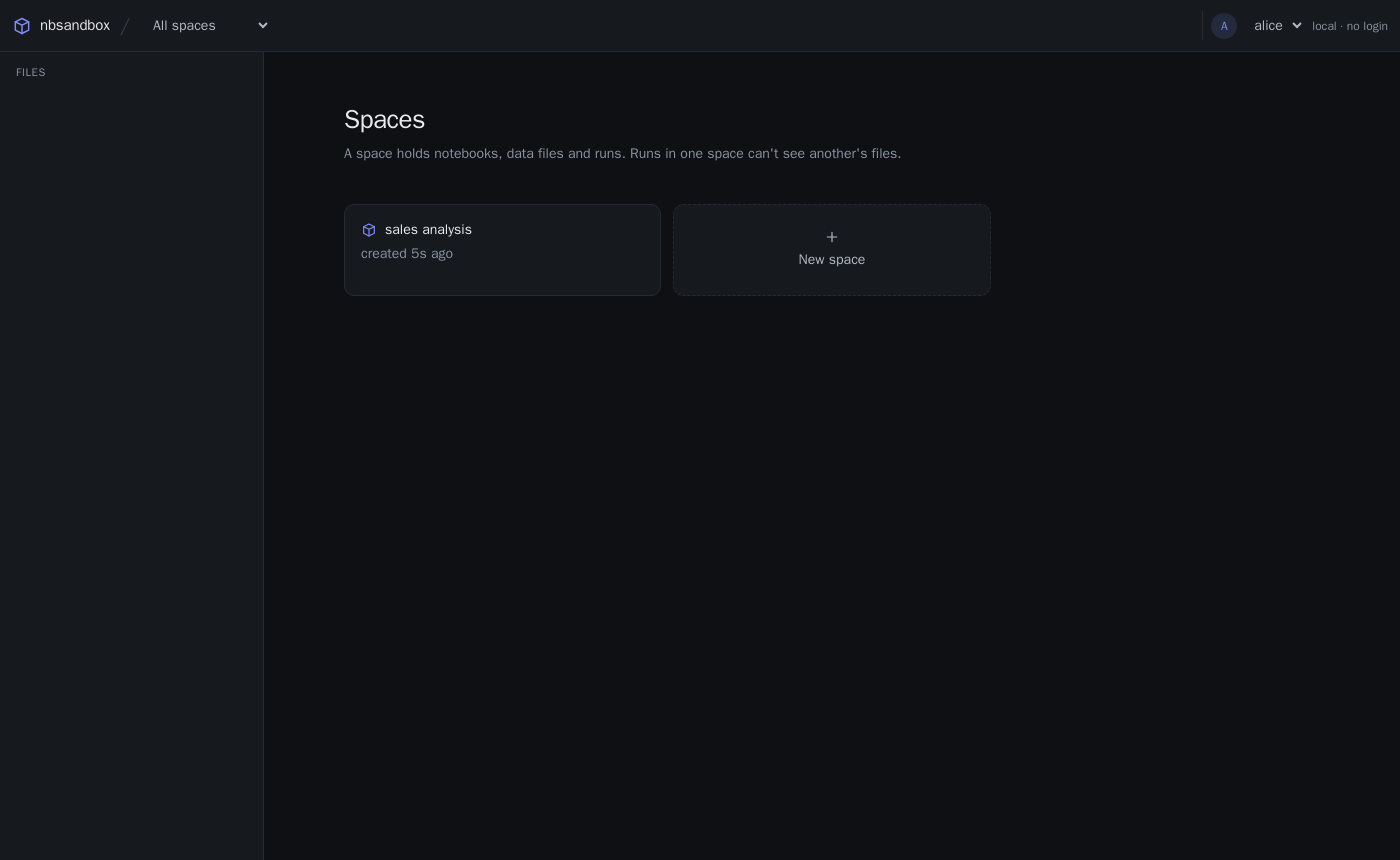
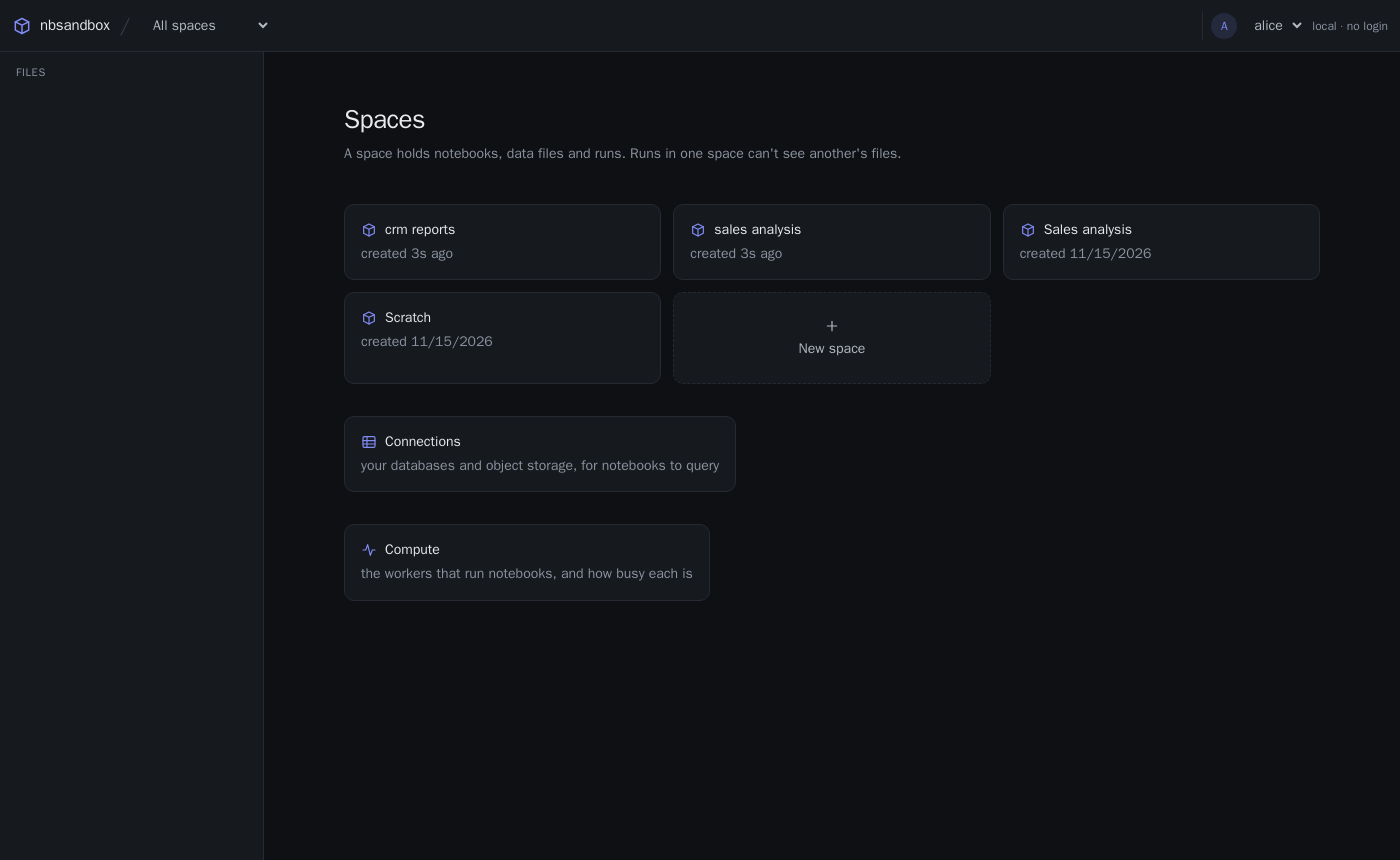
docs: the security review for v0.4.0, and the tour retaken
The review: govulncheck, pip-audit (runner and fetcher), Trivy on the four
images, gitleaks, and the new surface (credentials, the secret store, the
gateway, the SQL gate, TLS, the fetcher's extensions, the compute view, new
permissions), with what was fixed and what is accepted.

The tour: every screenshot retaken (make tour, connections on), with the
four new steps. The connections steps use a space of their own (a space
that binds names starts a fetcher for each run), and reuse an earlier
tour's connection.

diff --git a/scripts/tour/tour.py b/scripts/tour/tour.py
@@ -184,12 +184,20 @@ def compute(page):
     """Connections (when they're on) and the compute view: the workers, and
     a run's usage charts while the compute demo runs."""
     # 16. The user's connections; 17. the space's names for them.
+    conn_space = os.environ.get("TOUR_CONN_SPACE", "")
     page.goto(f"{BASE}/#/{USER}/~connections")
-    if page.get_by_text("crm-prod").first.is_visible(timeout=10_000):
+    listed = False
+    if conn_space:
+        try:
+            page.get_by_text("crm-prod").first.wait_for(timeout=15_000)
+            listed = True
+        except Exception:
+            pass
+    if listed:
         shot(page, "16-connections")
-        page.goto(f"{BASE}/#/{USER}/{SPACE}")
+        page.goto(f"{BASE}/#/{USER}/{conn_space}")
         section = page.locator(".space-connections")
-        expect(section.get_by_text("Environments")).to_be_visible(timeout=15_000)
+        expect(section.locator("th.group")).to_be_visible(timeout=15_000)
         section.scroll_into_view_if_needed()
         shot(page, "17-space-connections")
     else:

diff --git a/docs/security/review.md b/docs/security/review.md
@@ -2,6 +2,27 @@
 
 **2026-11-08, before the first v0.x release.** What was checked, what was found, and what was done about each finding. Repeat it before each release (the commands are at the end). The [threat model](threat-model.md) describes what nbsandbox protects against; this page is the evidence that it was checked.
 
+## The review for v0.4.0 (2026-11-26)
+
+Reading data outside nbsandbox is the new surface: users' credentials, a fetcher beside each reading run, an egress gateway. And the compute view: the workers, and each run's usage.
+
+| Area | Result |
+|---|---|
+| Go | `govulncheck`: none reached by our code (one in a required module, not called). No new dependency: `go.mod` is as at 0.3.0 |
+| Python packages | `pip-audit`: none, in the runner's packages and in the fetcher's (new: DuckDB 1.5.6 and pyarrow 26.0.1, which the runner now has too) |
+| Container images | Trivy, HIGH and CRITICAL with a fix: nbsandboxd 0, runner 0, builder 0, fetcher 0 (new image; the accepted CVE-2025-47273 still listed in `.trivyignore`). The runner, builder and fetcher each have 53 HIGH without a published fix, in Debian packages of the Python base image they share; the weekly rebuild takes them up once fixed. The weekly scan now covers the fetcher too |
+| Secrets in the source tree | `gitleaks`: sixteen, all known test or development values. The four from before, and twelve new: the dev and kind stacks' connections master key and gateway key (they decode to `dev-only-master-key-…` and `dev-only-gateway-key-…`), fixed keys in Go tests, a throwaway private key generated for a TLS test, and fake secrets in the fetcher's and the integration tests. **Hardening:** like the demo users' passwords, nbsandboxd and the gateway now warn at startup when given one of the repository's development keys, which are public (`config.PublicDevKey`) |
+| Credentials never reach a run | Only the fetcher holds them: a mounted Kubernetes Secret, its own Vault login, or (built-in store, Docker) its configuration. The run gets a token for its own fetcher. Checked by `connections-credentials` (the run's environment and folders searched) on Docker and Kubernetes. **Accepted:** on Docker the fetcher's configuration, credentials included, is in its container's environment, so whoever controls the Docker host can read it with `docker inspect`; they control every container already. The fetcher drops it from its own environment once read |
+| The built-in secret store (development) | AES-256-GCM with the master key, a random nonce per value, and the connection's reference as associated data: a stored value can't be moved to another connection. nbsandboxd never reads a Kubernetes Secret or a Vault value (`internal/secrets` tests) |
+| The egress gateway | It resolves each name itself and connects to exactly the address it checked (no window for DNS rebinding); loopback, link-local (cloud metadata), unspecified and multicast addresses are refused whatever a token says, IPv4-mapped IPv6 included. Tokens are HMAC-signed, compared in constant time, expire, and name the endpoints allowed. The switch that allows loopback exists for tests only: no setting turns it on. When a name can't be looked up, the run's user is told that, without the resolver's address (the gateway's log keeps the full error). **Operators:** `connections.allowed` decides what a token may name; keep the cluster's own services (nbsandbox's database, the API) out of it |
+| The fetcher's SQL gate | One `SELECT`, no pass-through or file functions, DuckDB locked after set-up, sources attached read-only: fuzzed (`fetcher-image/tests/test_gate_fuzz.py`, in the weekly run) and checked end to end by the isolation report's Connections rows (`connections-pass_through`, `…write`, `…two_statements`, `…local_file`, `…other_bucket`, `…dotdot`, `…settings`, `…db_role`) |
+| TLS to sources | `tls: verify` checks a database's certificate and name; HTTPS object storage always does (`TestConnectionsTLS`, on Docker and Kubernetes). **Accepted:** SQL Server can't be verified (its DuckDB extension, 0.2.5, checks no certificate): `verify` is refused for it, and the docs say to use `require` over a trusted network |
+| The fetcher image's extensions | DuckDB's `postgres`, `mysql`, `httpfs` and the community `mssql` extension are installed when the image is built, over HTTPS, signed by DuckDB; the image refuses unsigned extensions and loads none at run time |
+| The compute view | `GET /v1/workers` shows every signed-in user each worker's name, state, runtime and platform, and how many runs and sessions it holds: counts only, no one's runs, spaces or names (decided with the maintainer). The runtime, platform and image were already visible through `GET /v1/runtime`. A run's usage samples (`GET …/usage`) are its owner's only, checked like the run itself. The admin filters (`?worker=`) need `nbsandbox.admin` (`TestComputeWorkers`) |
+| New permissions | Kubernetes workers: `get` on Pods' metrics (`metrics.k8s.io`) in the runs namespace, read-only. Docker: the stats call goes through the socket proxy, which already allowed it |
+| **Found and fixed: sessions on Kubernetes ended at every upgrade** | Not a security issue, an availability one: a rolling upgrade's new worker Pods didn't take over the old ones' sessions. A worker that can reach a gone worker's session now takes it over; the database decides if two try (the take-over names the previous owner) |
+| **Found and fixed: the web UI's password sign-in** | `Referrer-Policy: no-referrer` made browsers send `Origin: null` with the UI's own requests, which the sign-in's origin check refused. Now `same-origin`: the origin goes with the UI's own requests, still nothing to other sites. The origin checks themselves are unchanged |
+
 ## The review for v0.3.0 (2026-11-21)
 
 Interactive sessions are the new surface: a notebook's live kernel, reached over a WebSocket.
